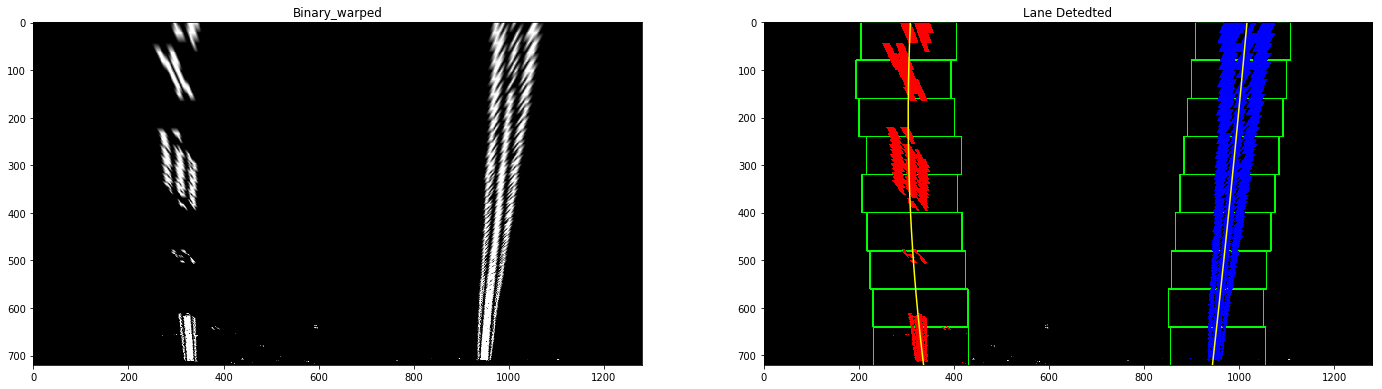
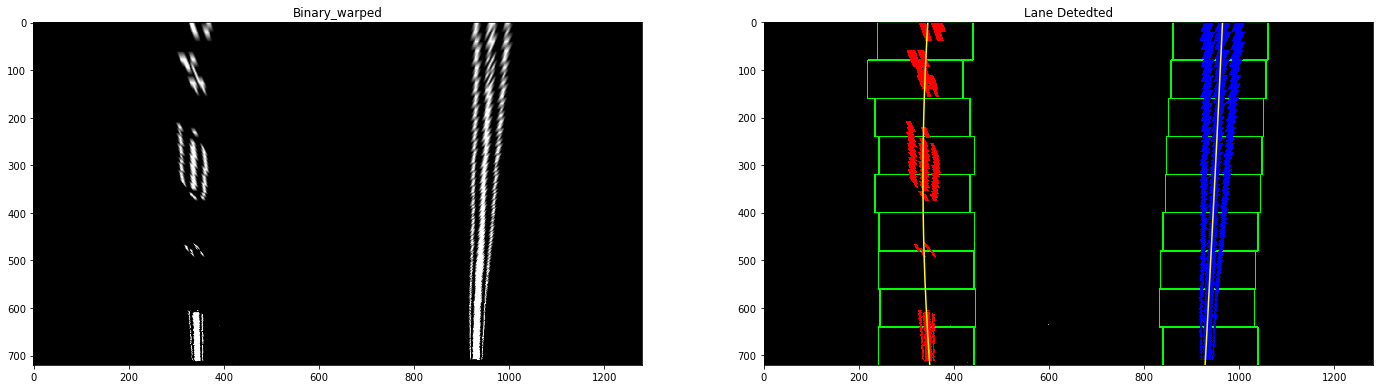
ready to hand up

diff --git a/writeup.md b/writeup.md
@@ -24,9 +24,9 @@ The goals / steps of this project are the following:
 
 #### 1. Briefly state how you computed the camera matrix and distortion coefficients. Provide an example of a distortion corrected calibration image.
 
-The code for this step is contained in the code cell In[2] of the Jupiter notebook located in 'Advanced_Lane_Lines.ipynb '.  
+The code for this step is contained in the code cell In[2] of the Jupiter notebook located in 'Advanced_Lane_Lines.ipynb '. 
 
-I start by preparing "object points", which will be the (x, y, z) coordinates of the chessboard corners in the world. Here I am assuming the chessboard is fixed on the (x, y) plane at z=0, such that the object points are the same for each calibration image.  Thus, `objp` is just a replicated array of coordinates, and `objpoints` will be appended with a copy of it every time I successfully detect all chessboard corners in a test image.  `imgpoints` will be appended with the (x, y) pixel position of each of the corners in the image plane with each successful chessboard detection.  
+I start by preparing "object points", which will be the (x, y, z) coordinates of the chessboard corners in the world. Here I am assuming the chessboard is fixed on the (x, y) plane at z=0, such that the object points are the same for each calibration image.  Thus, `objp` is just a replicated array of coordinates, and `objpoints` will be appended with a copy of it every time I successfully detect all chessboard corners in a test image.  `imgpoints` will be appended with the (x, y) pixel position of each of the corners in the image plane with each successful chessboard detection. 
 
 I then used the output `objpoints` and `imgpoints` to compute the camera calibration and distortion coefficients using the `cv2.calibrateCamera()` function.  I applied this distortion correction to the test image using the `cv2.undistort()` function and obtained this result: 
 ![](writeup_images/undistortion0.png)
@@ -64,24 +64,20 @@ Here's an example of my output for this step.  (note: this is not actually from 
 The code for my perspective transform includes a function called `warp_image()`, which appears in code cell In[6] in the file `Advanced_Lane_Lines.ipynb`.  The `warp_image()` function takes as inputs an image (`img`), with defined (`src`) and destination (`dst`) points.  I chose the hardcode the source and destination points in the following manner:
 
 ```python
-src = np.float32([[585,460],
-                  [203,720],
-                  [1127,720],
-                  [695,460]])
-offset = 320
-dst = np.float32([[offset,0],
-                  [offset,img_size[1]],
-                  [img_size[0]-offset,img_size[1]],
+corner = np.float32([[582,460],[210,720],[1123,720],[700,460]])
+offset = 340
+dst = np.float32([[offset,0], [offset,img_size[1]], \
+            [img_size[0]-offset,img_size[1]],
 ```
 
 This resulted in the following source and destination points:
 
 | Source        | Destination   | 
 |:-------------:|:-------------:| 
-| 585, 460      | 320, 0        | 
-| 203, 720      | 320, 720      |
-| 1127, 720     | 960, 720      |
-| 695, 460      | 960, 0        |
+| 582, 460      | 340, 0       | 
+| 210, 720      | 340, 720      |
+| 1123, 720     | 940, 720      |
+| 700, 460      | 940, 0       |
 
 I verified that my perspective transform was working as expected by drawing the `src` and `dst` points onto a test image and its warped counterpart to verify that the lines appear parallel in the warped image.
 
@@ -91,13 +87,23 @@ I verified that my perspective transform was working as expected by drawing the 
 
 #### 4. Describe how (and identify where in your code) you identified lane-line pixels and fit their positions with a polynomial?
 
-Then I used the slicing windows and histogram to find the lane lines and then fit lane lines with a 2nd order polynomial. I did this in code cell In[8] in `Advanced_Lane_Lines.ipynb`.
 
+Frst, I used the slicing windows and histogram to find the lane lines and then fit lane lines with a 2nd order polynomial.
+I did this in code cell In[8] in with function `lane_lines_detections()` in `Advanced_Lane_Lines.ipynb`.
 ![](writeup_images/poly.png)
+
+And if the lane is detected, I skip the sliding windows step, I search in a margin around the previous line position.
+I implement thsi in code cell In[10] in with the function `lane_line_detectation_with_pre_fit()` in `Advanced_Lane_Lines.ipynb`.
+![](writeup_images/poly2.png)
+
+I used the Sanity Check in code cell In[14][15] to determin, if the lane is detected. The idea is that, if the distance between left and right line on the top and bottom of lane lines are not around  700 pixel or the difference of each line is too big, than the lane-line detected failed. The previous fit would be used.
+I also used smoothing (average value) whenn fit is updated.
+
+
 
 #### 5. Describe how (and identify where in your code) you calculated the radius of curvature of the lane and the position of the vehicle with respect to the center.
 
-I did this in code cell In[10] in `Advanced_Lane_Lines.ipynb`
+I did this in code cell In[12] in `Advanced_Lane_Lines.ipynb`, it's called in code cell In[13] in the function ` draw_lines_on_image()`
 
 Calculate the curvature of lanes:
 
@@ -155,6 +161,8 @@ The pipeline consists of the following steps:
 - using the combined threshold to get binary images
 - Perspective transformation
 - Find lane lines 
+- Sanity Check & update fit
+- Draw lines on the image
 
 Here's a [link to my video result](output_images/project_video_output.mp4)
 
